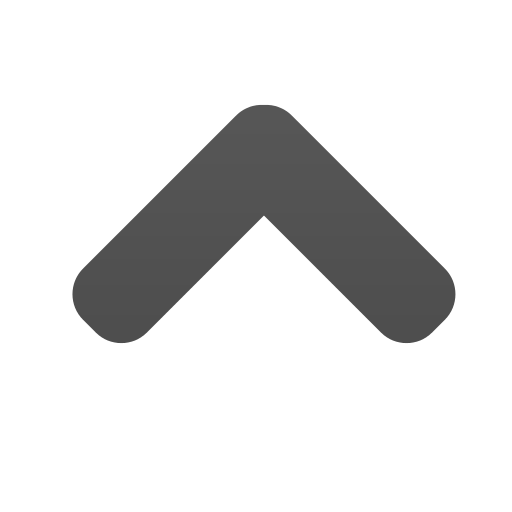
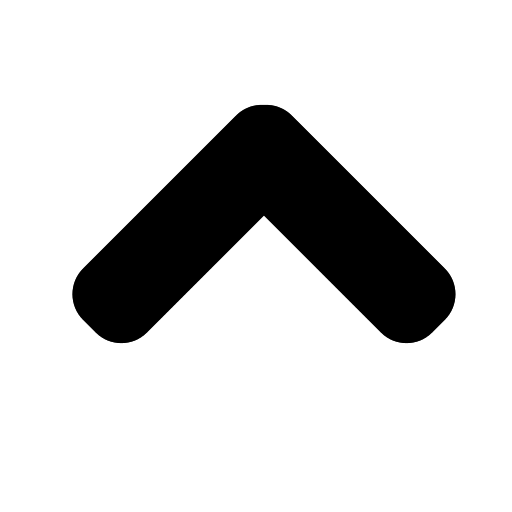
arrow

Changed region(s): [[0.125, 0.1875, 0.9062, 0.6875]]

diff --git a/css/style.css b/css/style.css
@@ -54,7 +54,7 @@ body {
 }
 .arrow_to_start_image {
     width: 96px;
-    border: 11px solid #515151;
+    border: 11px solid black;
     border-radius: 50%;
 }
 .main_page {
